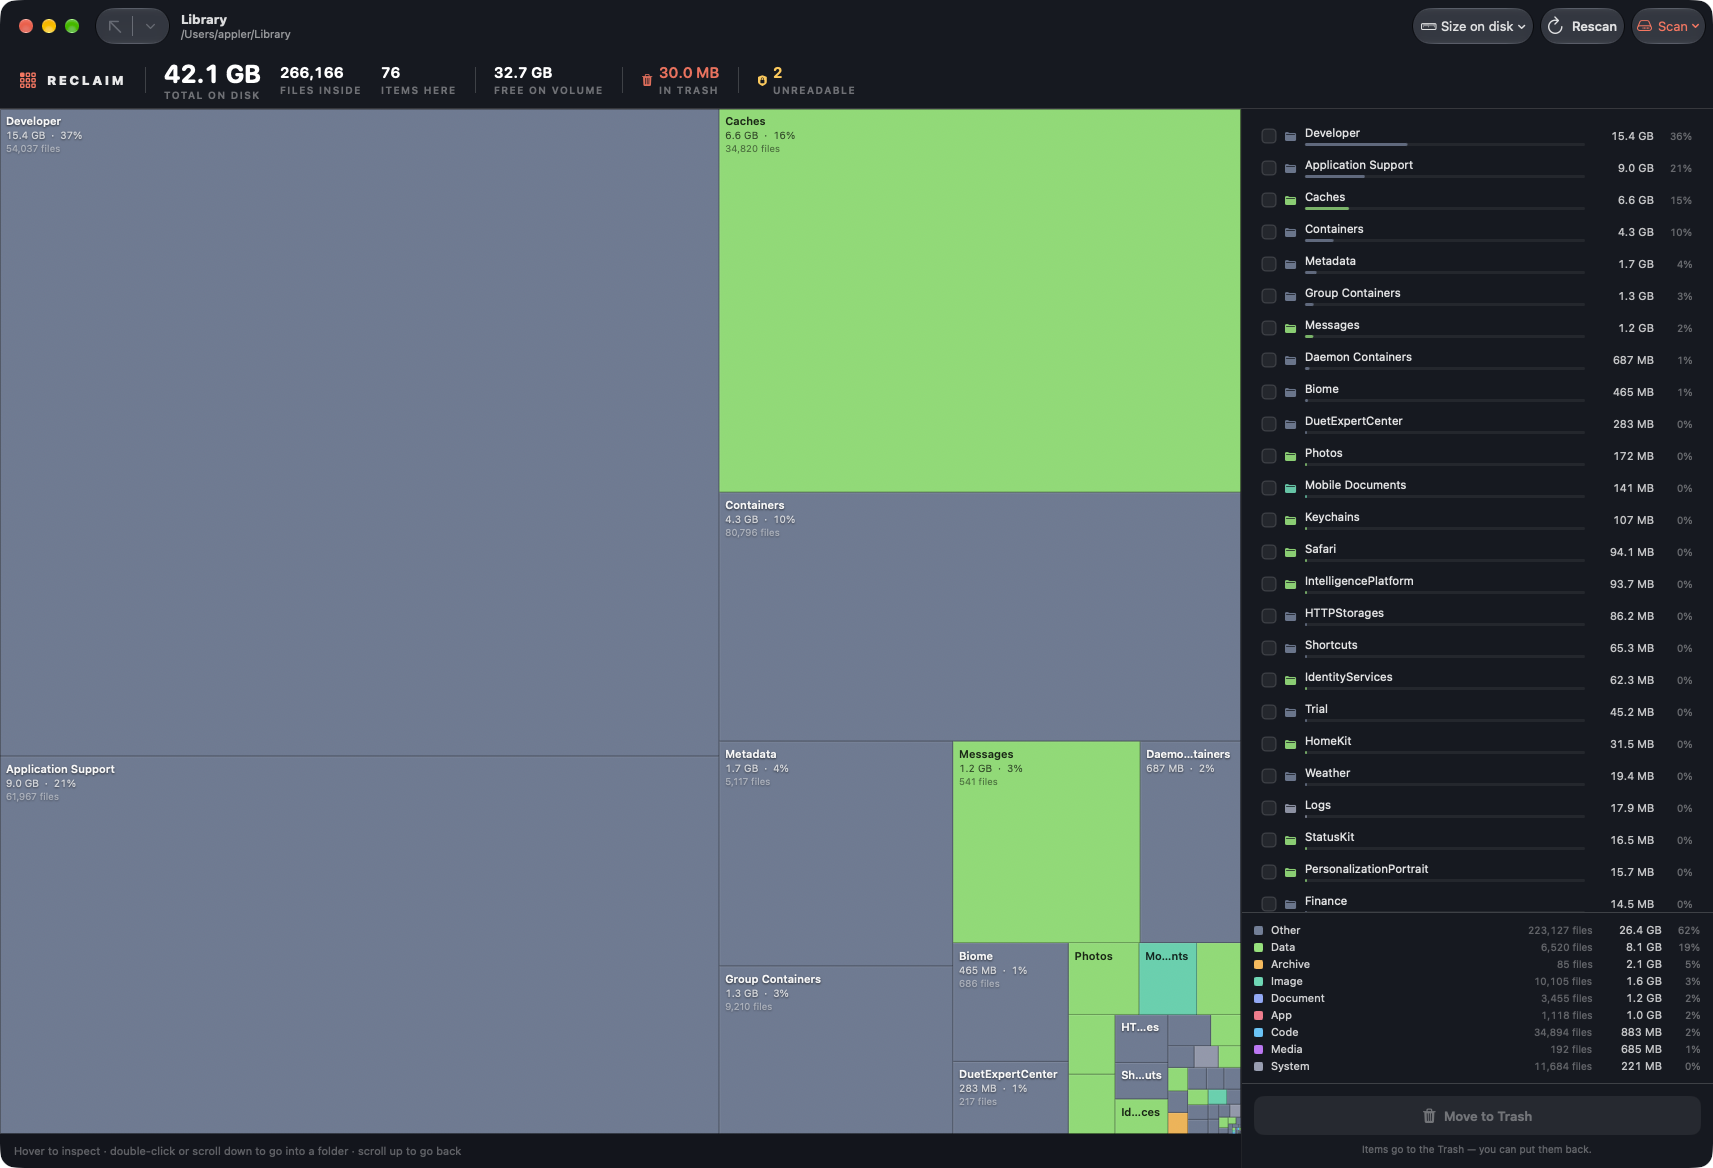
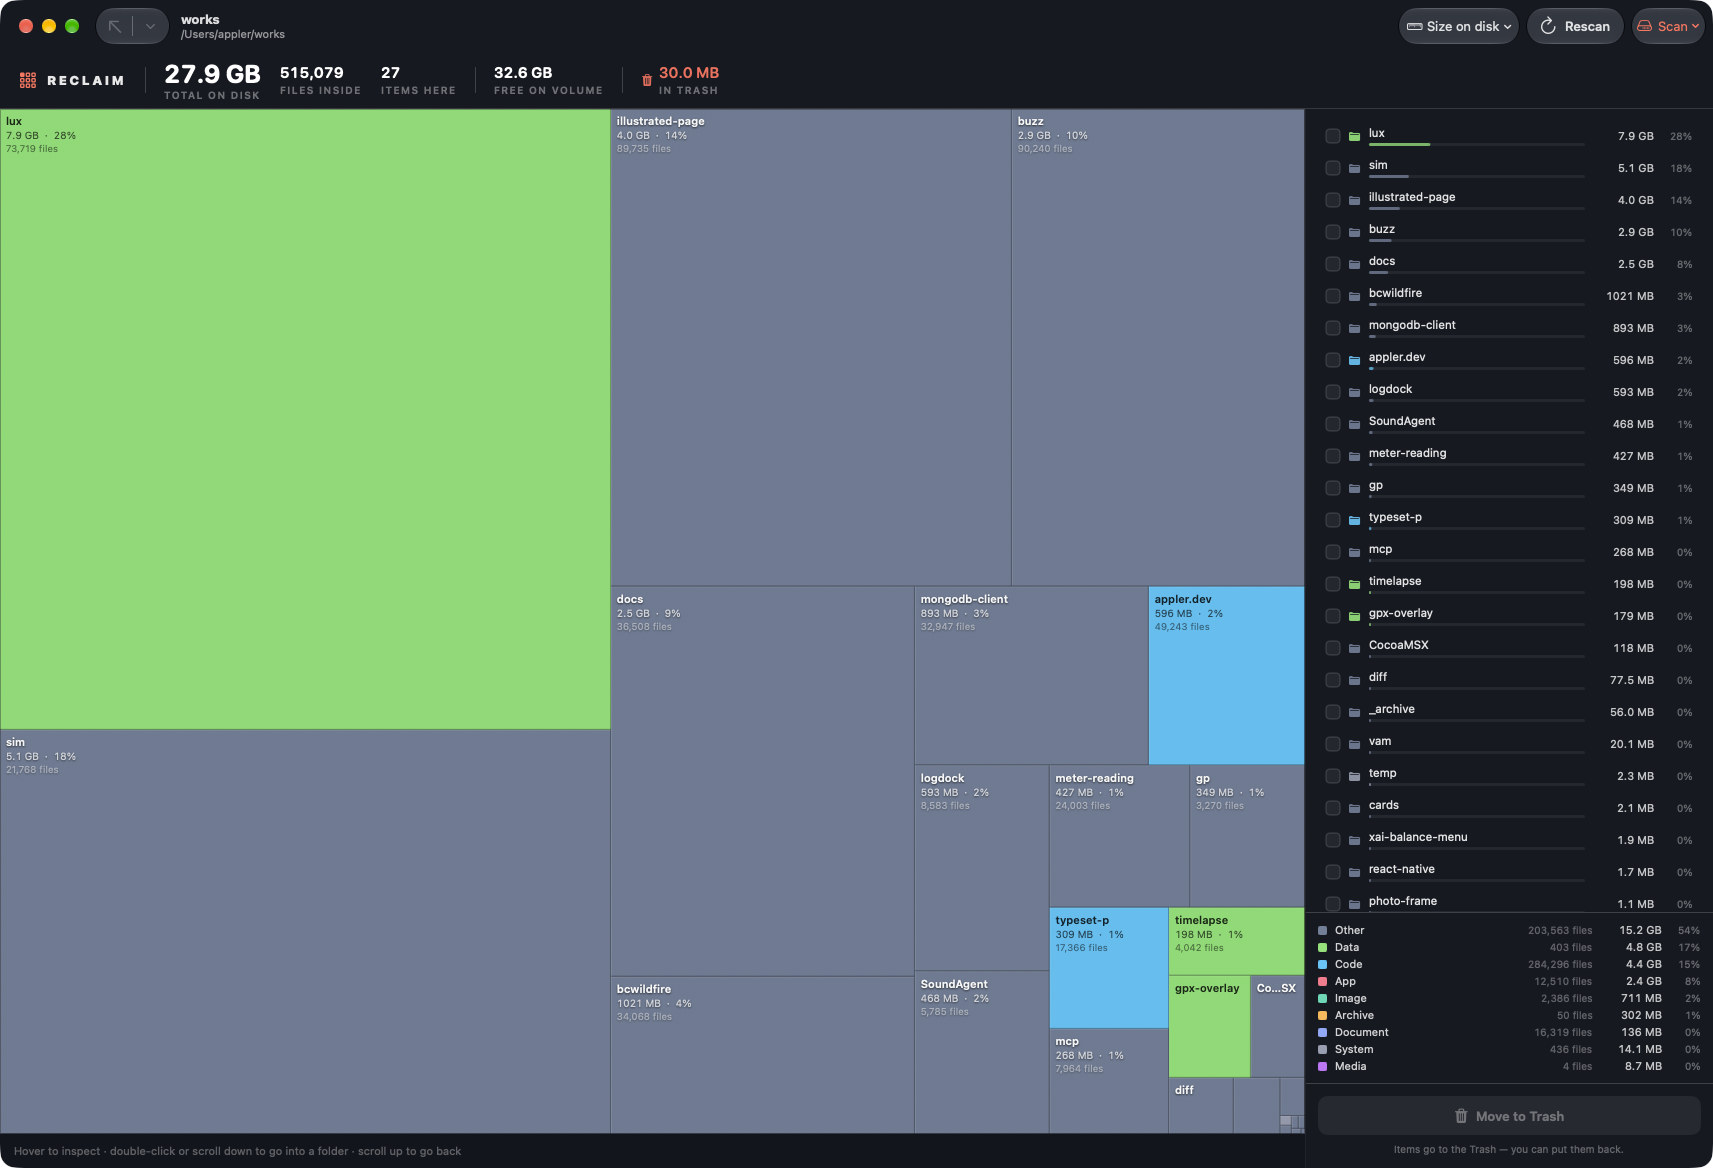
fix(reclaim): give the toolbar buttons room to breathe
A toolbar pill on macOS sizes itself to hug its label, and with an icon and a
word inside that left the text almost touching the edges. Each label now carries
its own horizontal padding, so the pill grows with it.

The spacing between buttons was already right and is untouched; this only affects
what happens inside each one.

diff --git a/Sources/DiskMap/ContentView.swift b/Sources/DiskMap/ContentView.swift
@@ -66,9 +66,12 @@ struct ContentView: View {
                 .help("Go to the enclosing folder (⌘↑). Hold for the folders above it.")
             }
             ToolbarItemGroup(placement: .primaryAction) {
+                // macOS sizes a toolbar pill to hug its label; at the default
+                // control size that leaves the text almost touching the edges.
                 if model.isScanning {
                     Button { model.cancelScan() } label: {
                         Label("Stop", systemImage: "stop.fill")
+                            .padding(.horizontal, 7)
                     }
                     .labelStyle(.titleAndIcon)
                     .help("Stop scanning and keep what has been found so far")
@@ -89,12 +92,14 @@ struct ContentView: View {
                         }
                     } label: {
                         Label(model.measure.label, systemImage: "ruler")
+                            .padding(.horizontal, 7)
                     }
                     .labelStyle(.titleAndIcon)
                     .help("Which size to report: bytes occupied on disk, or the files' logical length")
 
                     Button { model.rescan() } label: {
                         Label("Rescan", systemImage: "arrow.clockwise")
+                            .padding(.horizontal, 7)
                     }
                     .labelStyle(.titleAndIcon)
                     .help("Scan this location again")
@@ -715,6 +720,7 @@ struct ScanMenu: View {
             Button("Refresh volumes") { model.refreshVolumes() }
         } label: {
             Label("Scan", systemImage: "internaldrive")
+                .padding(.horizontal, 7)
         }
         .labelStyle(.titleAndIcon)
         .menuStyle(.borderlessButton)
